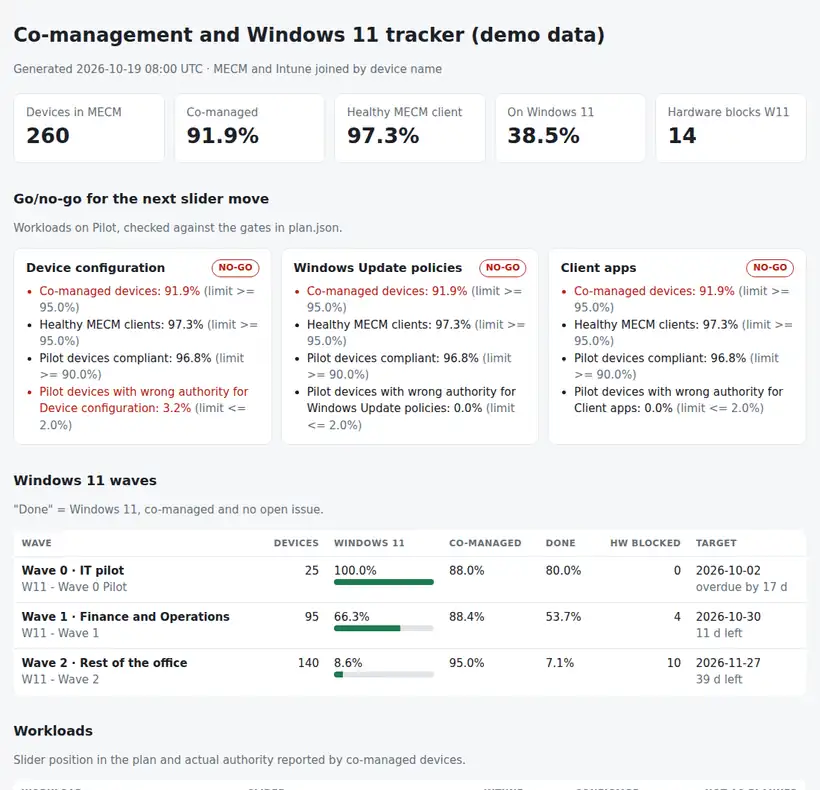
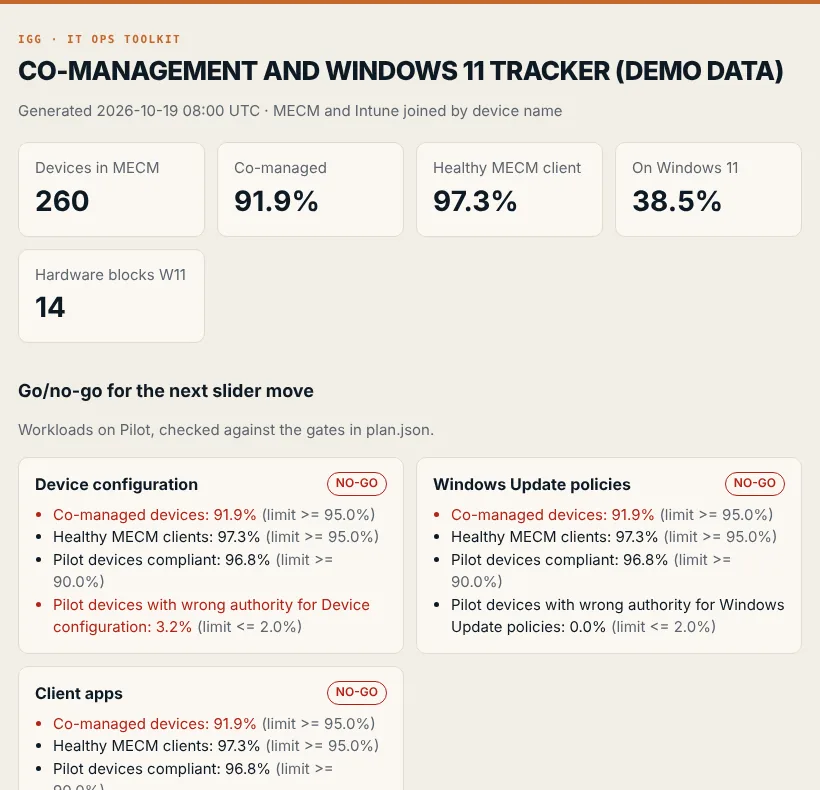
Report: IGG colours (paper, ink and the orange accent) and a new screenshot

diff --git a/comgmt/report.py b/comgmt/report.py
@@ -55,9 +55,9 @@ def gates_md(devices: list[DeviceState], plan: Plan, now: datetime) -> str:
 
 
 CSS = """
-:root{--bg:#f6f7f8;--card:#fff;--ink:#1b2128;--muted:#66717c;--line:#e2e5e9;--ok:#1e7a4c;--warn:#a46200;--bad:#b42318;--cm:#7a5af8;--in:#0b6bcb}
-@media (prefers-color-scheme:dark){:root{--bg:#13171b;--card:#1b2127;--ink:#e7eaee;--muted:#9aa5b0;--line:#2b333b;--ok:#4cc38a;--warn:#f0a83a;--bad:#f2685c;--cm:#a48afb;--in:#5aa9f0}}
-*{box-sizing:border-box}body{margin:0;background:var(--bg);color:var(--ink);font:15px/1.5 system-ui,-apple-system,Segoe UI,sans-serif}
+:root{--bg:#f2eee6;--card:#fbf8f3;--ink:#0e1a24;--muted:#5d6670;--line:#e2dccf;--ok:#1e7a4c;--warn:#a46200;--bad:#b42318;--cm:#7a5af8;--in:#0b6bcb}
+@media (prefers-color-scheme:dark){:root{--bg:#0e1a24;--card:#142331;--ink:#f2eee6;--muted:#a9b3bb;--line:#24364a;--ok:#4cc38a;--warn:#f0a83a;--bad:#f2685c;--cm:#a48afb;--in:#5aa9f0}}
+*{box-sizing:border-box}body{border-top:4px solid #c4672b}h1{font-weight:800;letter-spacing:-.025em;text-transform:uppercase;line-height:1.05}h1::before{content:"IGG · IT Ops toolkit";display:block;font:600 11px/1.4 ui-monospace,SFMono-Regular,Menlo,monospace;letter-spacing:.14em;text-transform:uppercase;color:#c4672b;margin-bottom:10px}body{margin:0;background:var(--bg);color:var(--ink);font:15px/1.5 system-ui,-apple-system,Segoe UI,sans-serif}
 main{max-width:1100px;margin:0 auto;padding:28px 18px 60px}h1{font-size:26px;margin:0 0 4px}h2{font-size:18px;margin:34px 0 12px}
 .muted{color:var(--muted)}.tiles{display:grid;grid-template-columns:repeat(auto-fit,minmax(160px,1fr));gap:12px;margin-top:20px}
 .tile{background:var(--card);border:1px solid var(--line);border-radius:10px;padding:14px 16px}.tile b{display:block;font-size:28px}
